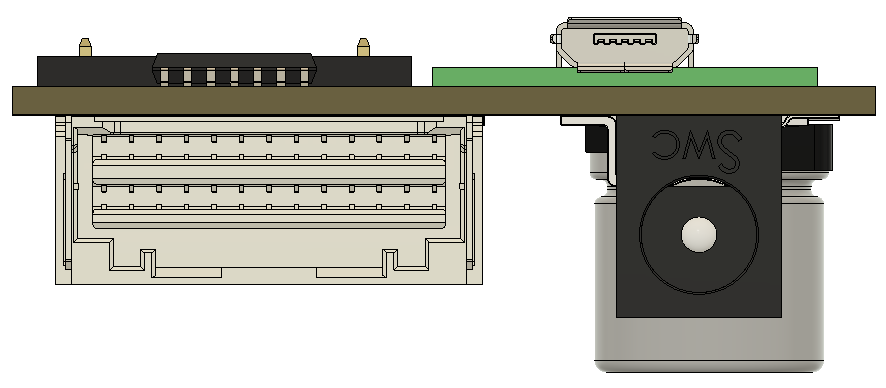
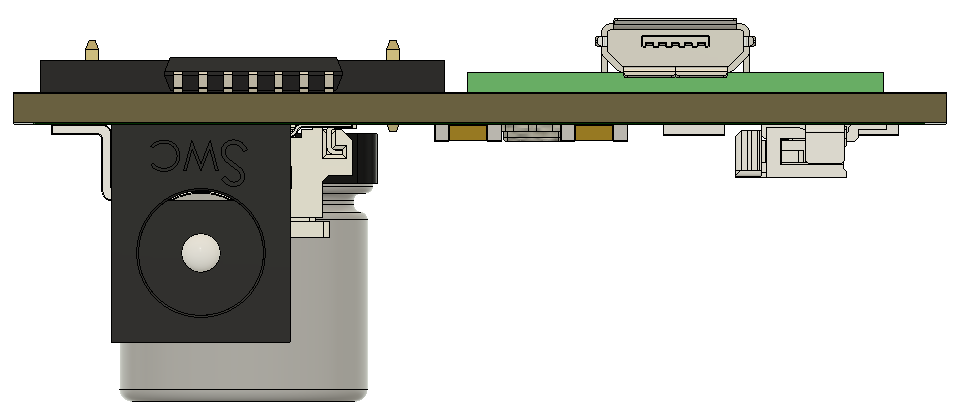
Change the motherboard connector. AGAIN!! :D
The huge connector I've been looking at never *really* sat right
with me. But found a fairly nice chassis connector, which means I
can use a ribbon cable connector for the motherboard.
Saves A LOT (!!) of space.

diff --git a/README.md b/README.md
@@ -50,6 +50,7 @@ This is to introduce drive-by-wire buttons for Mercedes-Benz. Specifically, it i
    - [Update Sun 9 May 2024](#update-sun-9-may-2024)
    - [Update Thu 27 Jun 2024](#update-thu-27-jun-2024)
    - [Update Sun 30 Jun 2024](#update-sun-30-jun-2024)
+   - [Update Mon 1 Jun 2024(#update-mon-1-jun-2024)
 6. [Additional information](#additional-information)
 
 ## Fingerprint scanner instead of Start button
@@ -320,15 +321,19 @@ Crossed out parts are things I either didn't buy or don't need. Yet. Which is wh
 
 | Part | Price |
 | :--- | :---  |
-| [Motherboard connector - 24pin/vertical](https://www.mouser.co.uk/ProductDetail/538-213227-2410) | £3
-| [Motherboard connector - 24pin/horizontal](https://www.mouser.co.uk/ProductDetail/538-503148-2490) | £3
-| [Headers & Wire Housings - 24pin](https://www.mouser.co.uk/ProductDetail/538-503149-2400) | £0.6
+| ~~[Motherboard connector - 24pin/vertical](https://www.mouser.co.uk/ProductDetail/538-213227-2410)~~ | ~~£3~~
+| ~~[Motherboard connector - 24pin/horizontal](https://www.mouser.co.uk/ProductDetail/538-503148-2490)~~ | ~~£3~~
+| ~~[Motherboard connector - 26pin/vertical](https://www.mouser.co.uk/ProductDetail/538-503148-2690)~~ | ~~£3~~
+| ~~[Headers & Wire Housings - 24pin](https://www.mouser.co.uk/ProductDetail/538-503149-2400)~~ | ~~£0.6~~
+| ~~[Headers & Wire Housings - 26pin](https://www.mouser.co.uk/ProductDetail/538-503149-2600)~~ | ~~£0.8~~
 | ~~[Wire to Motherboard connector - 24pin](https://www.mouser.co.uk/ProductDetail/538-503148-2490)~~ | ~~£3~~
 | ~~[Panel mount connector - 24 pin](https://www.mouser.co.uk/ProductDetail/798-DF51-24DEP-2C)~~ | ~~£1~~
 | ~~[Wire to panel mount connector - 24pin](https://www.mouser.co.uk/ProductDetail/798-DF51-24DS-2C)~~ | ~~£0.3~~
 | ~~[Molex MiniFit Jr Housing - 2x3pin](https://www.mouser.co.uk/ProductDetail/538-39-30-6068)~~ | ~~£1~~
 | [Debug connector - 5pin/vertical](https://www.mouser.co.uk/ProductDetail/538-53398-0567) | £0.6
 | [DC Power Connector](https://www.mouser.co.uk/ProductDetail/502-RASM722X) | £1.3
+| [FPC Connector - 26 pin](https://www.mouser.co.uk/ProductDetail/538-52207-2660) | £2.4
+| [Ribbon cable - 26 core](https://www.mouser.co.uk/ProductDetail/906-100R26-76B) | £2.8
 
 Don't think I'm going to buy the panel and wire to panel connectors. The motherboard connector looks quite big, so it might
 be better to just stick that out through the box. I'll leave them in here for now, because I might change my mind.
@@ -336,10 +341,15 @@ be better to just stick that out through the box. I'll leave them in here for no
 I want this thing to be as small as possible, easier to hide it somewhere in the car then :). I have yet to
 decide if I want a vertical or a horizontal connector..
 
-The side view with horizontal motherboard connector:
+Actually, I found a nice connector on eBay ([IP68 Aviation Plug Socket](https://www.ebay.co.uk/itm/154107555672?var=454247628623)
+for £21 (which is a bit much, but it's nice! :). It's quite big, but think it'll be nice to be able to lock
+the connector tight. It doesn't technically need to be water proof, but it can get moist in the cabin..
+
+For now, I think that's the best option. This allows me to use a ribbon cable between the motherboard
+and that chassis connector, which minimizes the size of the motherboard connector.
+
 ![PCB - Side view (1)](./PCB%20-%20Side%20%281%29.png)
 ![PCB - Side view (2)](./PCB%20-%20Side%20%282%29.png)
-![PCB - Side (3D - Perspective)](./PCB%20-%20Side%20%283D%20-%20Perspective%29.png)
 
 ## For development
 
@@ -585,6 +595,13 @@ it draws "a lot" of power, will get hot.
   MIGHT be a feedback from the actuator, or a dip in voltage/amps when it's moving that the
   power supply can't quite handle (I DID get a very cheap one!), so the Pico doesn't get
   enough power..
+
+## Update Mon 1 Jul 2024
+
+* Change the motherboard connector. AGAIN!! :D
+  The huge connector I've been looking at never *really* sat right with me. But found a fairly
+  nice chassis connector, which means I can use a ribbon cable connector for the motherboard.
+  Saves A LOT (!!) of space.
 
 # Additional information
 
